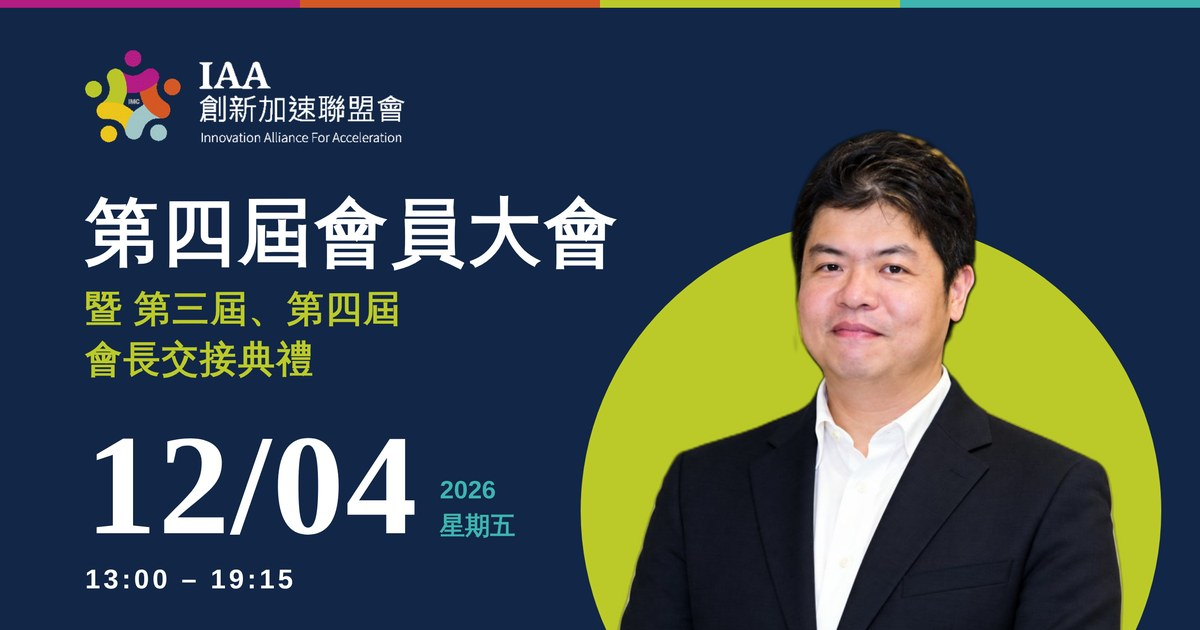
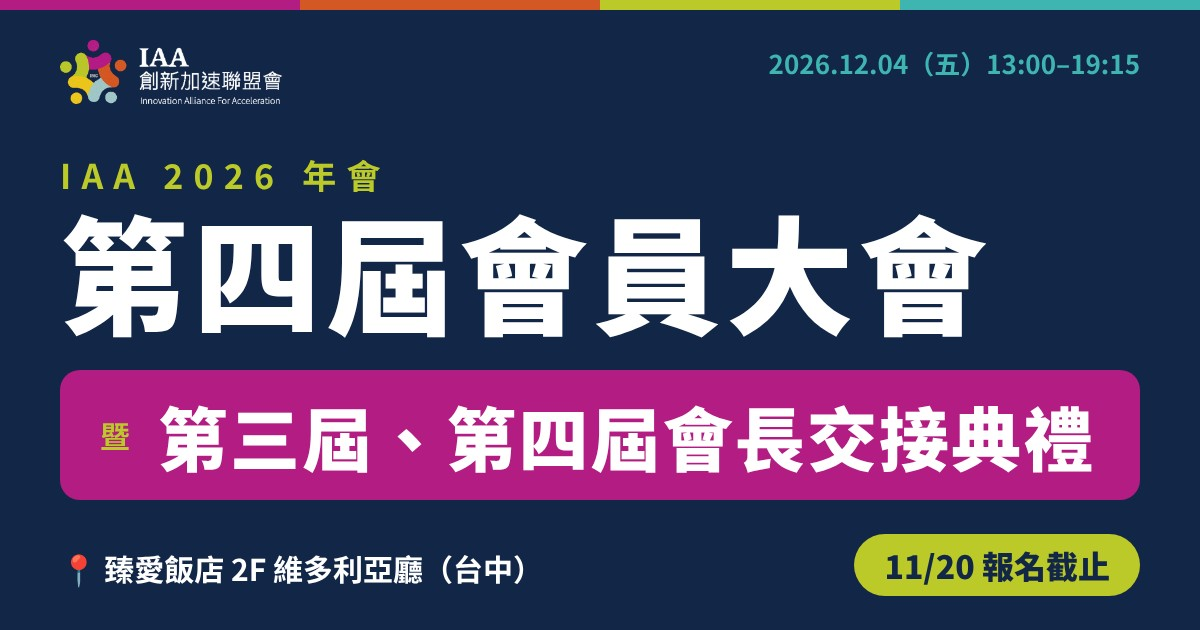
LINE 預覽圖改為第 2 款（會員大會與會長交接）
Claude-Session: https://claude.ai/code/session_01ExEkuUsm13vi13NAaT7Bii

diff --git a/20261204/index.html b/20261204/index.html
@@ -1,6 +1,6 @@
 <!doctype html>
 <html lang="zh-Hant"><head><meta charset="utf-8"><meta name="viewport" content="width=device-width,initial-scale=1,viewport-fit=cover">
-<meta property="og:type" content="website"><meta property="og:title" content="2026 IAA 年會｜12/4（五）臺中臻愛飯店"><meta property="og:description" content="第四屆會員大會暨會長交接典禮・13:00–19:15・11/20 報名截止"><meta property="og:image" content="https://ericliang680928.github.io/IAA/20261204/og.jpg"><meta property="og:image:width" content="1200"><meta property="og:image:height" content="630"><meta property="og:url" content="https://ericliang680928.github.io/IAA/20261204/"><meta name="twitter:card" content="summary_large_image">
+<meta property="og:type" content="website"><meta property="og:title" content="2026 IAA 年會｜12/4（五）臺中臻愛飯店"><meta property="og:description" content="第四屆會員大會暨會長交接典禮・13:00–19:15・11/20 報名截止"><meta property="og:image" content="https://ericliang680928.github.io/IAA/20261204/og.jpg?v=2"><meta property="og:image:width" content="1200"><meta property="og:image:height" content="630"><meta property="og:url" content="https://ericliang680928.github.io/IAA/20261204/"><meta name="twitter:card" content="summary_large_image">
 <title>IAA 2026 年會</title>
 <meta name="claude:viewport-fit-sides" content="cover">
 <link rel="stylesheet" href="https://fonts.googleapis.com/css2?family=Noto+Sans+TC:wght@400;500;700&family=Noto+Serif+TC:wght@600;900&display=swap">

diff --git a/20261204/status/index.html b/20261204/status/index.html
@@ -3,7 +3,7 @@
 <head>
 <meta charset="utf-8">
 <meta name="viewport" content="width=device-width,initial-scale=1,viewport-fit=cover">
-<meta property="og:type" content="website"><meta property="og:title" content="IAA 2026 年會｜報名查詢"><meta property="og:description" content="查詢你有沒有報名成功，並看目前報名人數與名單。"><meta property="og:image" content="https://ericliang680928.github.io/IAA/20261204/og.jpg"><meta property="og:image:width" content="1200"><meta property="og:image:height" content="630"><meta property="og:url" content="https://ericliang680928.github.io/IAA/20261204/status/"><meta name="twitter:card" content="summary_large_image">
+<meta property="og:type" content="website"><meta property="og:title" content="IAA 2026 年會｜報名查詢"><meta property="og:description" content="查詢你有沒有報名成功，並看目前報名人數與名單。"><meta property="og:image" content="https://ericliang680928.github.io/IAA/20261204/og.jpg?v=2"><meta property="og:image:width" content="1200"><meta property="og:image:height" content="630"><meta property="og:url" content="https://ericliang680928.github.io/IAA/20261204/status/"><meta name="twitter:card" content="summary_large_image">
 <title>2026 IAA 年會 報名查詢</title>
 <meta name="description" content="IAA 創新加速聯盟會 第四屆會員大會暨第三屆、第四屆會長交接典禮 報名狀況查詢">
 <link rel="preconnect" href="https://fonts.googleapis.com">
